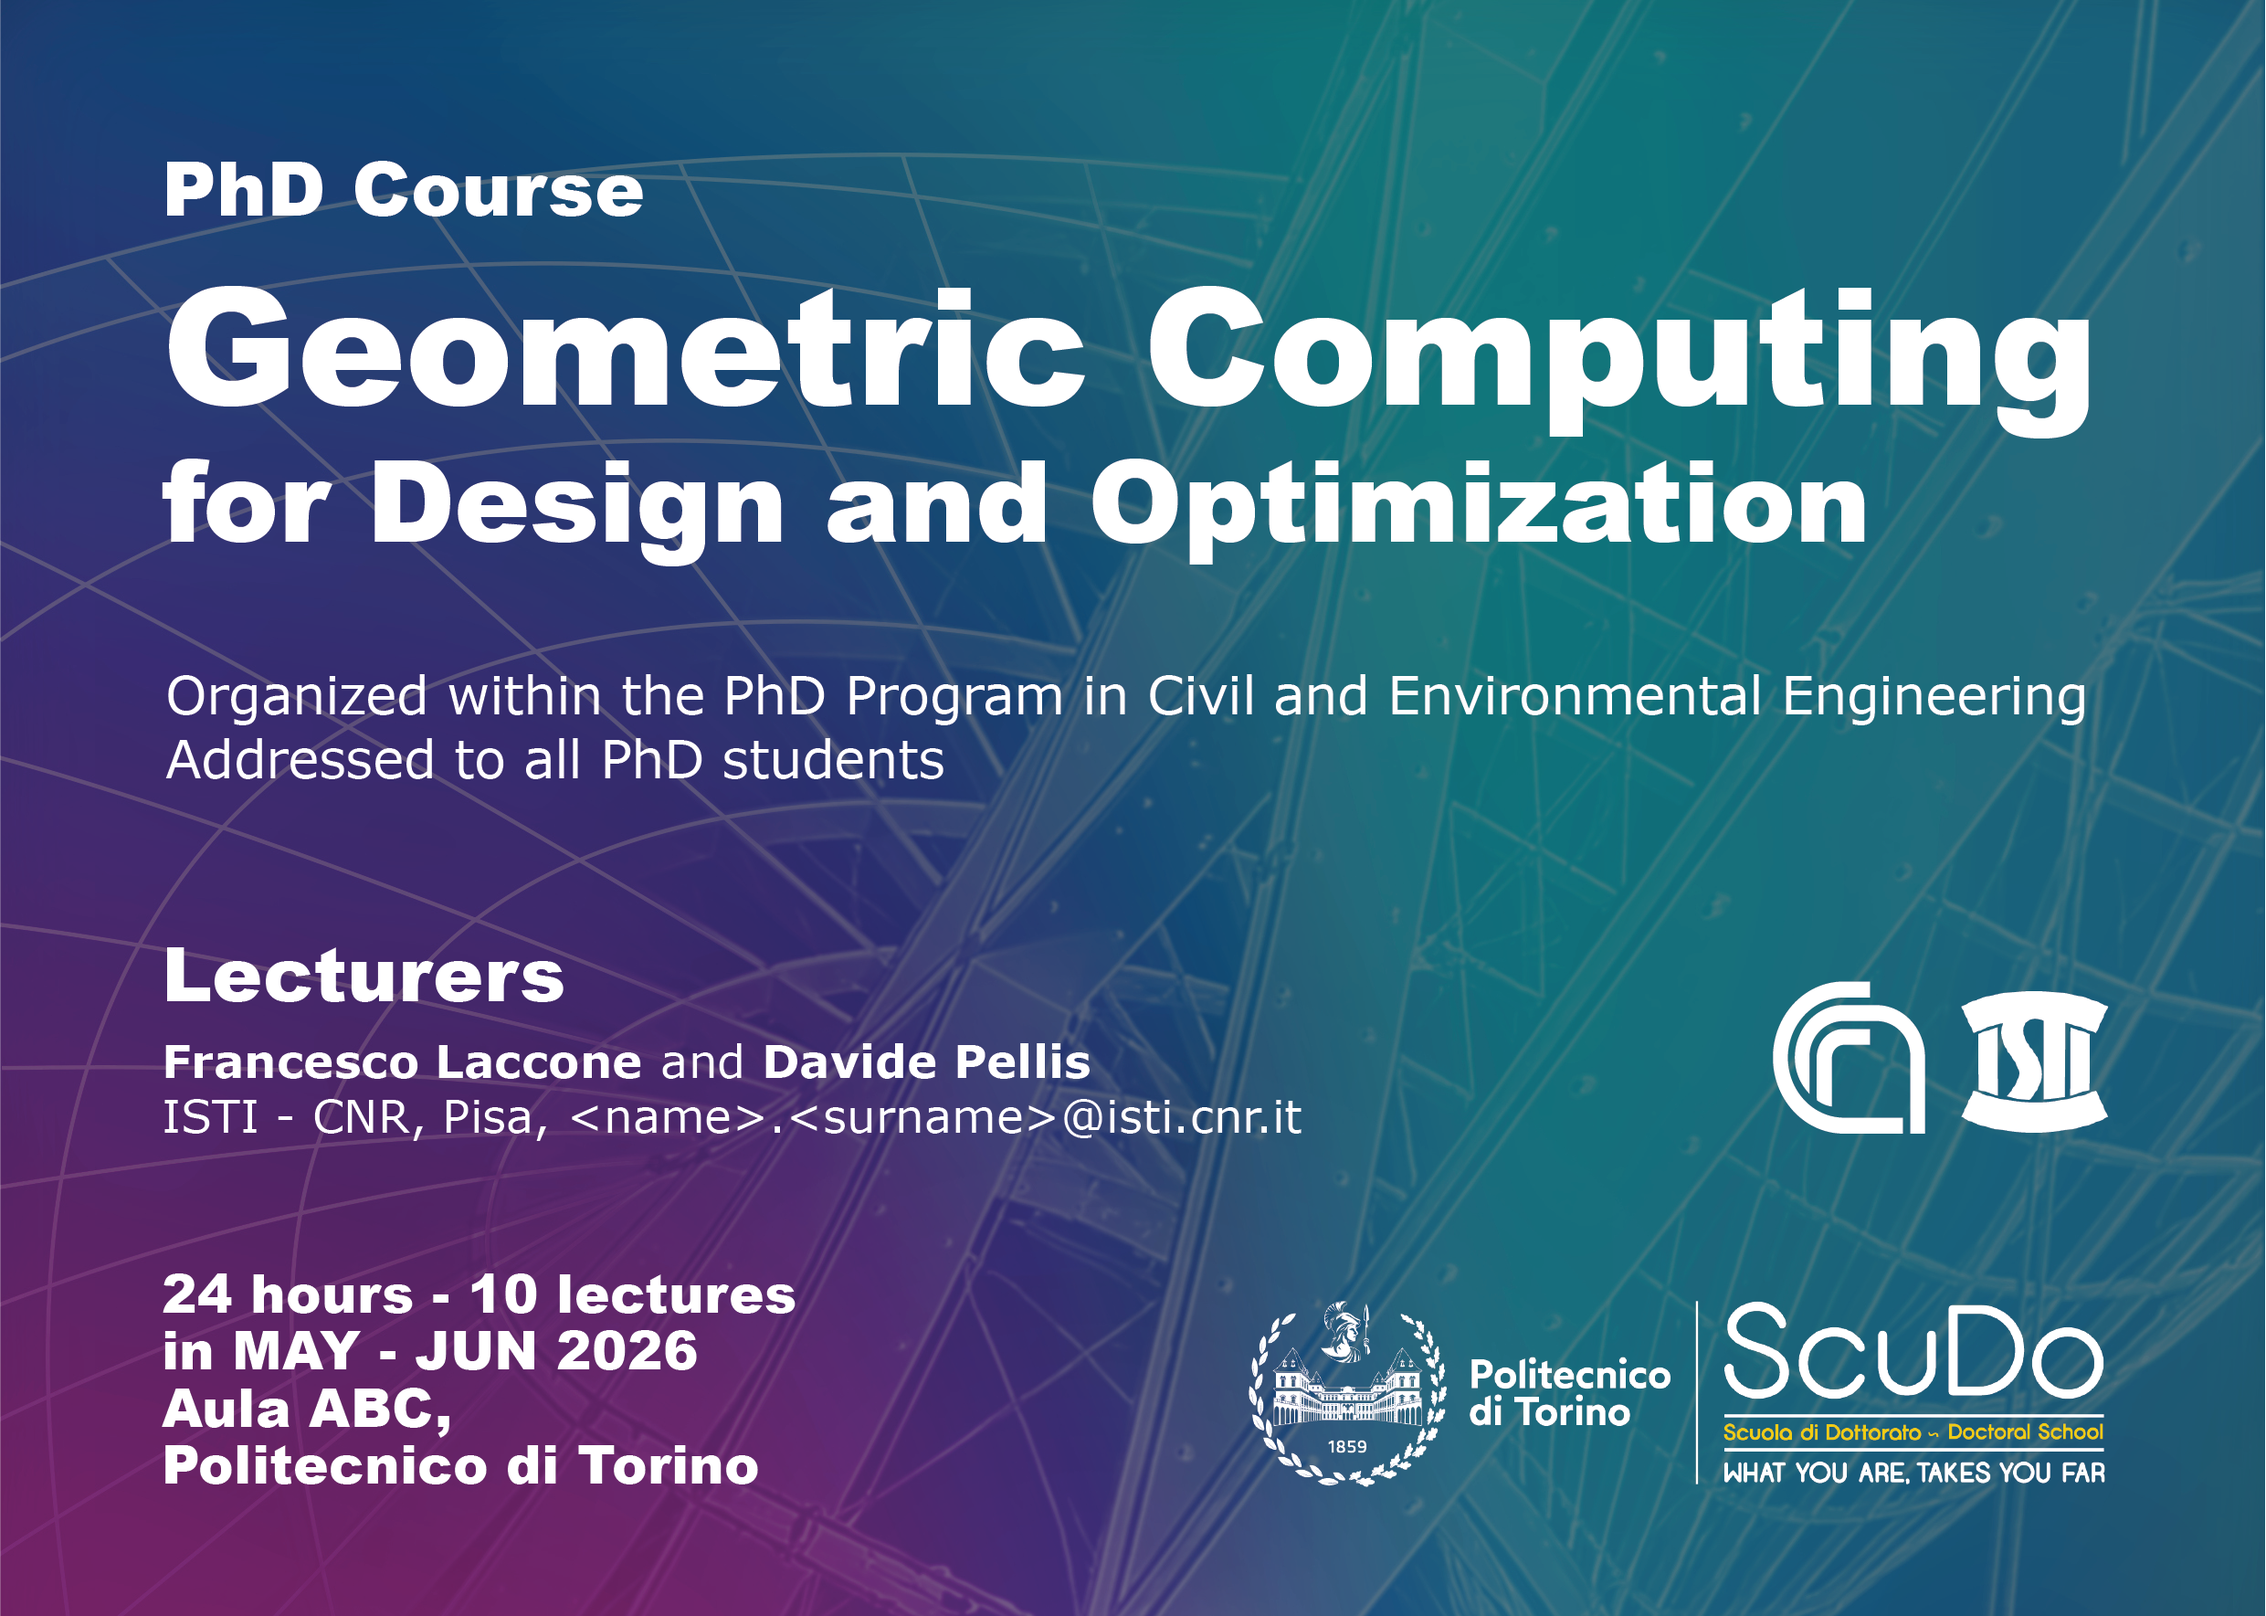
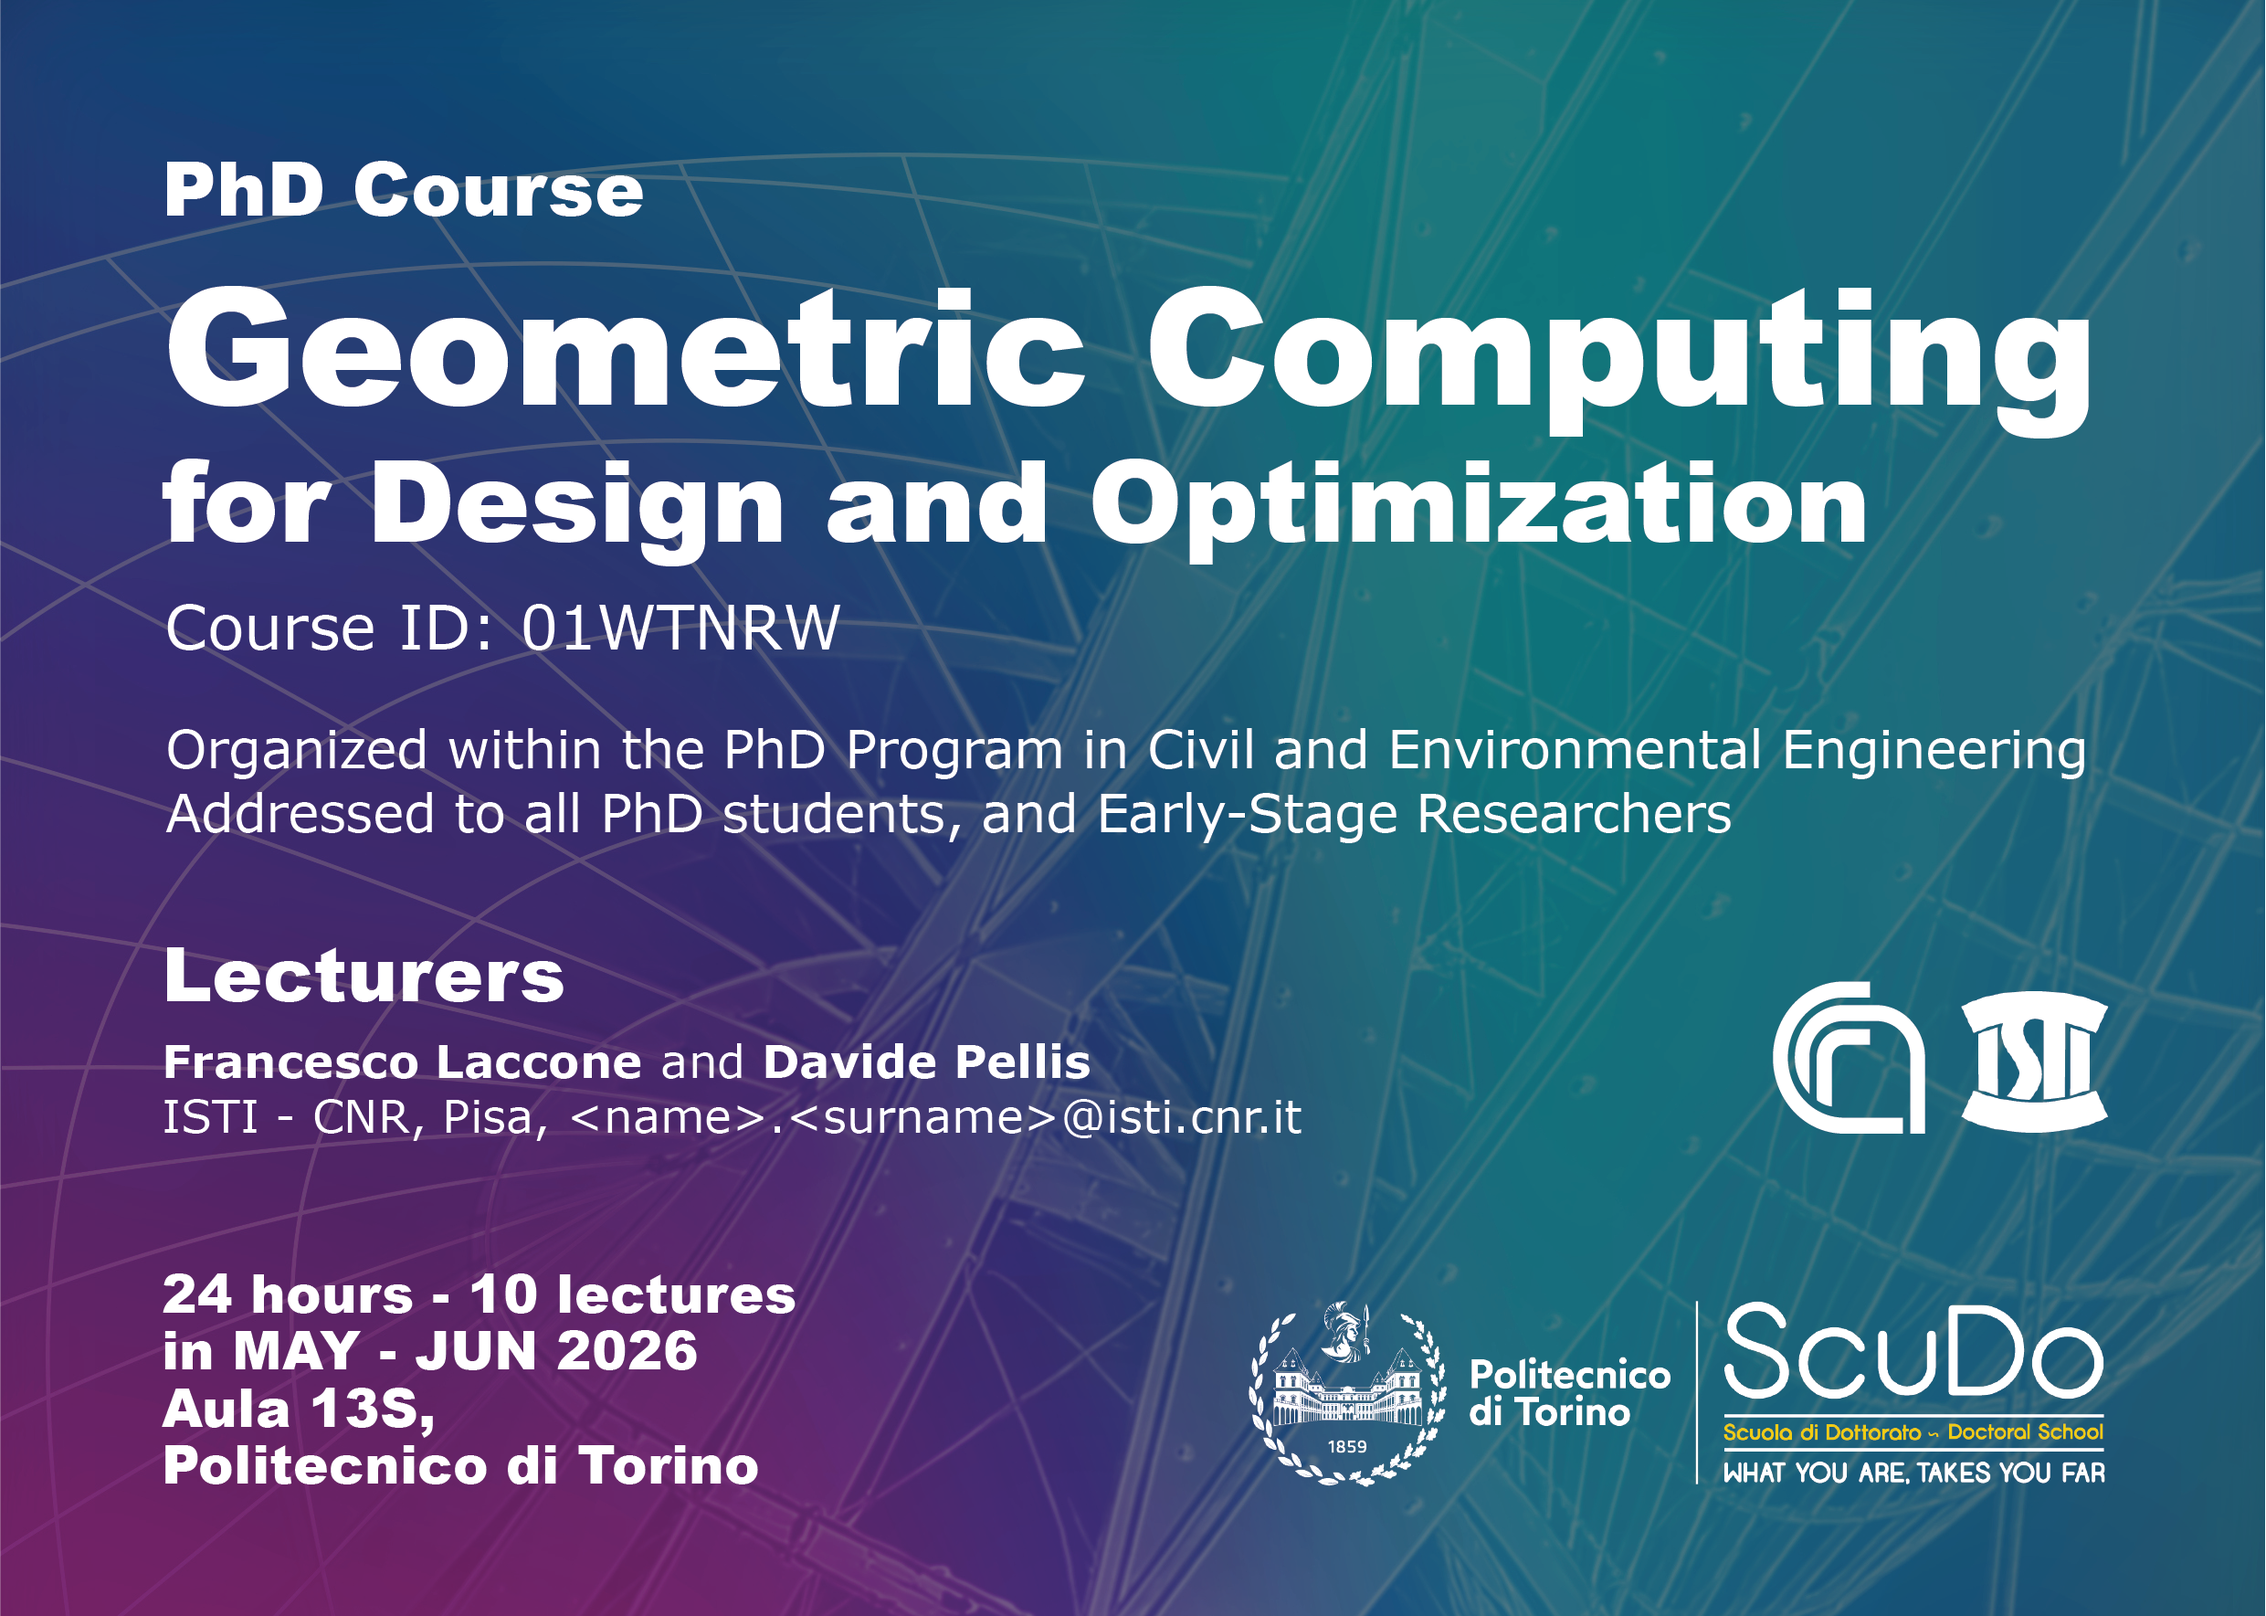
edit course page

Changed region(s): [[0.0621, 0.3731, 0.9311, 0.5285], [0.1241, 0.8395, 0.2173, 0.9016]]

diff --git a/content/courses/2026/PhDcourseGeomComputing/index.md b/content/courses/2026/PhDcourseGeomComputing/index.md
@@ -9,7 +9,7 @@ summary: A new PhD Course on Geometric Computing for Design and Optimization sta
 
 
 #### Organized within the PhD Program in Civil and Environmental Engineering
-#### Addressed to all PhD students
+#### Addressed to all PhD students, and Early-Stage Researchers
 
 <br />
 
@@ -19,7 +19,7 @@ summary: A new PhD Course on Geometric Computing for Design and Optimization sta
 <br />
 
 #### 24 hours - 10 lectures in MAY - JUN 2026
-#### Politecnico di Torino, Aula ABC
+#### Politecnico di Torino, Aula 13S
 
 <br />
 
@@ -28,7 +28,37 @@ This doctoral course explores the mathematical and computational foundations of 
     
 The course develops design approaches based on geometric data processing and algorithmic modeling, linking geometry to real-world design problems involving complex shapes (e.g., architectural roofs and façades, automotive, naval, and aerospace shells, mechanical components, artworks). Students will engage with geometric representations, differential geometry, and optimization techniques through a combination of theory and hands-on work using Rhino, Grasshopper, and Python.
 
-<br />
+<div id="courseCarousel" class="carousel slide" data-ride="carousel" style="max-width:800px; margin: 2rem auto;">
+  <div class="carousel-indicators">
+    <button type="button" data-target="#courseCarousel" data-slide-to="0" class="active" aria-current="true" aria-label="Slide 1"></button>
+    <button type="button" data-target="#courseCarousel" data-slide-to="1" aria-label="Slide 2"></button>
+    <button type="button" data-target="#courseCarousel" data-slide-to="2" aria-label="Slide 3"></button>
+    <button type="button" data-target="#courseCarousel" data-slide-to="3" aria-label="Slide 4"></button>
+  </div>
+  <div class="carousel-inner rounded">
+    <div class="carousel-item active">
+      <img src="flexmapsPavilion.png" class="d-block w-100" alt="Description 1">
+    </div>
+    <div class="carousel-item">
+      <img src="princSym.jpg" class="d-block w-100" alt="Description 2">
+    </div>
+    <div class="carousel-item">
+      <img src="mold.png" class="d-block w-100" alt="Description 3">
+    </div>
+    <div class="carousel-item">
+      <img src="coralli.png" class="d-block w-100" alt="Description 4">
+    </div>
+  </div>
+  <button class="carousel-control-prev" type="button" data-target="#courseCarousel" data-slide="prev">
+    <span class="carousel-control-prev-icon" aria-hidden="true"></span>
+    <span class="sr-only">Previous</span>
+  </button>
+  <button class="carousel-control-next" type="button" data-target="#courseCarousel" data-slide="next">
+    <span class="carousel-control-next-icon" aria-hidden="true"></span>
+    <span class="sr-only">Next</span>
+  </button>
+</div>
+
 
 ## Learning Objectives
 By the end of the course, students will:
@@ -47,25 +77,25 @@ WEEK 1: Geometry and Representation
 <table>
   <tr> <!-- Row 1 -->
     <td style="width:13%" >May 07</td>
-    <td style="width:18%">hh to hh (2h)</td>
+    <td style="width:18%">14.30-16.30 (2h)</td>
     <td> Course Introduction and 3D Geometry Basics <br />
     Course overview  •  Software ecosystem and tools  •  Continuous vs. discrete geometric representations  •  Introduction to polygonal meshes</td>
   </tr>
   <tr> <!-- Row 2 -->
     <td> May 07 </td>
-    <td>hh to hh (2h)</td>
+    <td>16.30-18.30 (2h)</td>
     <td>3D Data Structures and Parametric Representations <br />
     Mesh data structures  •  Parametric curve representations: Bézier curves, B-Splines, NURBS  •  Extension from curves to parametric surfaces  •  Comparative advantages for design and computation</td>
   </tr>
     <tr> <!-- Row 1 -->
     <td style="width:13%" >May 08</td>
-    <td style="width:18%">hh to hh (2h)</td>
+    <td style="width:18%">9.00-11.00 (2h)</td>
     <td> Differential Geometry of Curves and Surfaces <br />
     Parametric curves and surfaces  •  Curvature analysis and geometric descriptors  •  Curves on surfaces: geodesics, curvature fields, asymptotic directions  •  Surface classification for design and fabrication  •  Visualization and interpretation of geometric properties</td>
   </tr>
   <tr> <!-- Row 2 -->
     <td> May 8 </td>
-    <td>hh to hh (2h)</td>
+    <td>11.00-13.00 (2h)</td>
     <td>Geometry Processing Fundamentals <br />
     Remeshing and Subdivision methods  •  Discrete differential operators for meshes  •  Relaxation, Laplacian smoothing</td>
   </tr>
@@ -76,19 +106,19 @@ WEEK 2: Computational Geometry and Fabrication
 <table>
   <tr> <!-- Row 1 -->
     <td style="width:13%" >May 21</td>
-    <td style="width:18%">hh to hh (2h)</td>
+    <td style="width:18%">14.30-16.30 (2h)</td>
     <td> Digital Fabrication of Surfaces <br />
     Surface rationalization strategies: nodes, beams, panels  •  Fabrication constraints and material considerations  •  CNC fabrication processes and workflows  •  Design approaches: continuous vs. discretized (polyhedral) surfaces</td>
   </tr>
   <tr> <!-- Row 2 -->
     <td> May 21 </td>
-    <td>hh to hh (2h)</td>
+    <td>16.30-18.30 (2h)</td>
     <td>CAD Tools for Geometry Processing <br />
     Introduction to Rhino and Grasshopper environments  •  Data flow and parametric modeling logic  •  Representation of curves and surfaces in CAD  •  Python scripting in Rhino/Grasshopper  •  Introduction to MeshLab and PyMeshLab for geometry processing</td>
   </tr>
     <tr> <!-- Row 1 -->
     <td style="width:13%" >May 22</td>
-    <td style="width:18%">hh to hh (4h)</td>
+    <td style="width:18%">9.00-13.00 (4h)</td>
     <td> Workshop 1 - Design of an asymptotic framework <br />
     From curve/surface to structure  •  Design and generation of a framework  •
     Control of geometric properties and constraints  •  Implementation using Rhino/Grasshopper and Python</td>
@@ -100,19 +130,19 @@ WEEK 3: Design and Optimization
 <table>
   <tr> <!-- Row 1 -->
     <td style="width:13%" >Jun 04</td>
-    <td style="width:18%">hh to hh (2h)</td>
+    <td style="width:18%">11.00-13.00 (2h)</td>
     <td> Optimization in Geometric Design <br />
     Formulating design problems as optimization tasks  •  Objective functions, variables, and constraints  •  Introduction to optimization methods  •  Application in Rhino/Python for geometry-aware design</td>
   </tr>
   <tr> <!-- Row 2 -->
     <td> Jun 04 </td>
-    <td>hh to hh (4h)</td>
+    <td>13.30-17.30 (4h)</td>
     <td>Workshop 2 - Design of an asymptotic framework on a minimal surface <br />
     Optimization of a minimal surface •  Computation of geometric quantities on meshes  •  CAD-to-CAM pipeline for digital fabrication  •  Preparation of final project outputs</td>
   </tr>
     <tr> <!-- Row 1 -->
     <td style="width:13%" >Jun 05</td>
-    <td style="width:18%">hh to hh (2h)</td>
+    <td style="width:18%">9.30-11.30 (2h)</td>
     <td> Final Presentations and Review <br />
     Assembly of physical prototypes (e.g., paper or cardboard models)  •  Presentation of workshop outcomes  •  Peer discussion and feedback</td>
   </tr>
@@ -121,10 +151,16 @@ WEEK 3: Design and Optimization
 <br />
 
 ## Enrolment details
+Attendance is free of charge.
+* PoliTo students: Please follow the standard enrolment procedure.
+* Non-PoliTo students: Please email the lecturers to express your interest; you will be registered on the first day of the course.
+
+<br />
+
+## Requirements
 Available soon
 
 <br />
 
 ## Material
 Available soon
-
